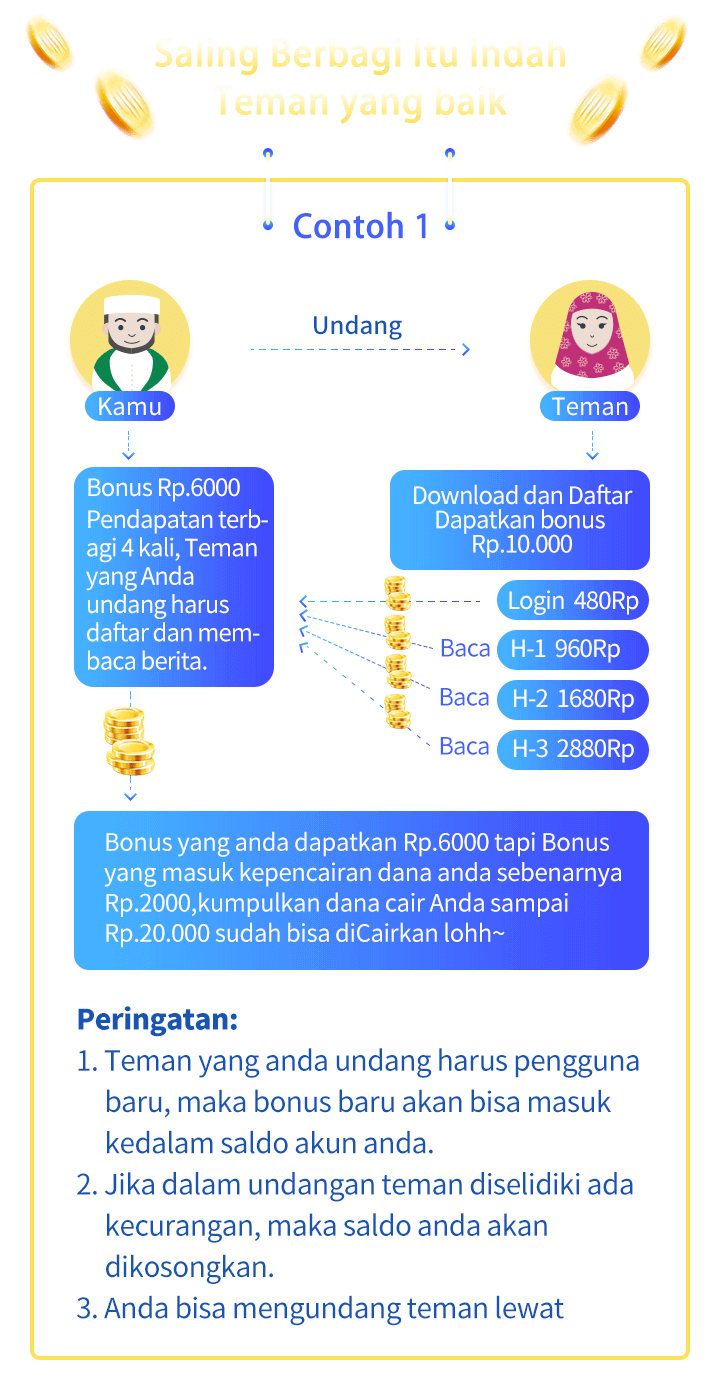
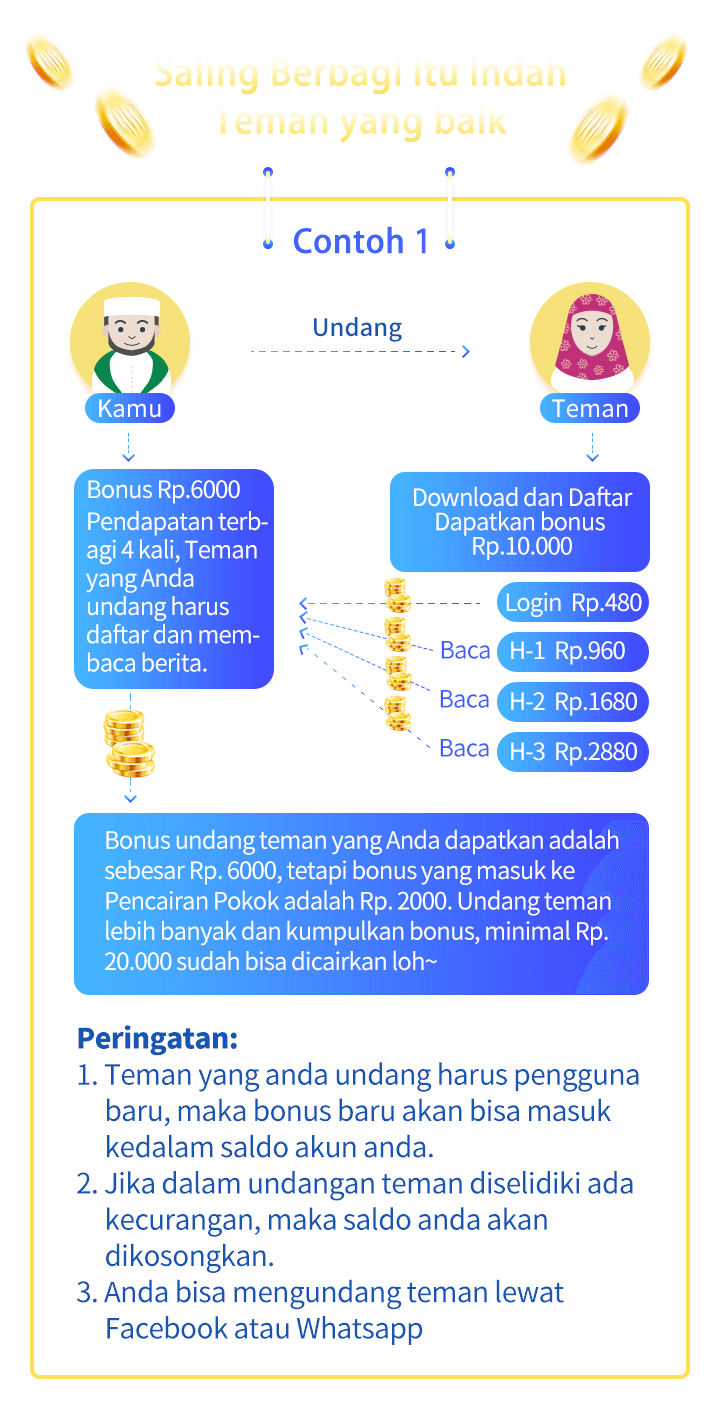
邀请好友规则页面修改

diff --git a/src/components/Invite.vue b/src/components/Invite.vue
@@ -10,7 +10,7 @@
             </div>
         <ul>
                 <li class="rule title">
-                <span >Junlah<br>Undang</span>
+                <span >Jumlah<br>Undang</span>
                 <span >Bonus <br>Undang</span>
                 <span >Bonus <br>Pencairan Pokok</span></li>
                 <li class="rule"><span>1</span><span>6000</span><span>2000</span></li>
@@ -36,8 +36,8 @@
 Sebesar Rp.10.000 dan Anda juga akan dapat Bonus Undang teman sebesar Rp.6000.
         </p>
         <p class="invite-text">
-            2.Setiap Anda undang teman saldo pencairan anda otomatis akan dapatkan Rp.2000 (Rp.1000 dari undang teman dan Rp.1000 dari Bonus Koin) Pencairan Dana Anda paling rendah harus mencapai Rp20.000 (untuk mendapatkan pencairan sebesar Rp.20.000 berarti anda harus mengundang 10 teman,
-            dan Anda ingin mencairkan berapa limitnya harus ikutin peraturan yang ada).
+            2.Setiap Anda mengundang teman, saldo pencairan Anda otomatis akan bertambah Rp. 2000 
+            ( Rp. 1000 dari undang teman dan Rp. 1000 dari Bonus koin). Pencairan dana  dapat dilakukan dengan minimum limit Rp. 20.000 (berarti Anda harus mengundang 10 teman). Pencairan dengan limit lainnya mengikuti peraturan yang ada. 
         </p>
     </div>
 

diff --git a/src/components/User.vue b/src/components/User.vue
@@ -608,7 +608,7 @@ uploadImg (e, num) {
       this.formatEdu();
       this.formatOccupation();
       this.formatDate();
-      
+     
       this.$http({
         url: '/api/personal/info?'+new Date().getTime(),
         method: 'get',
